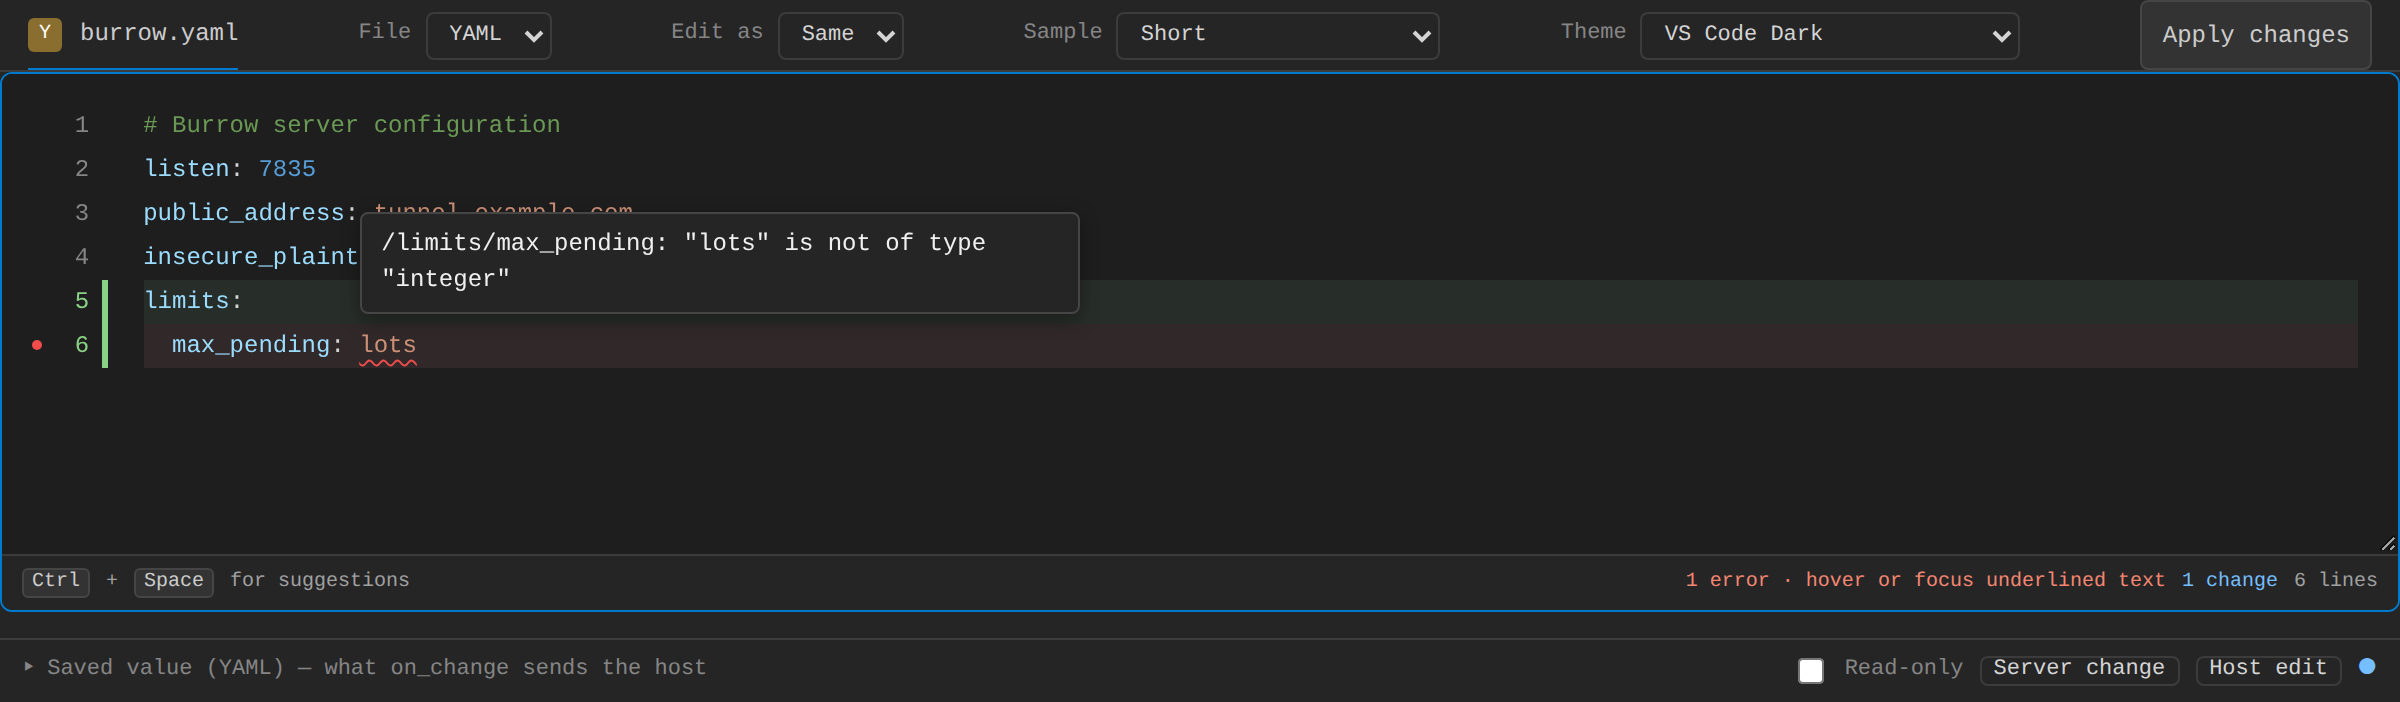
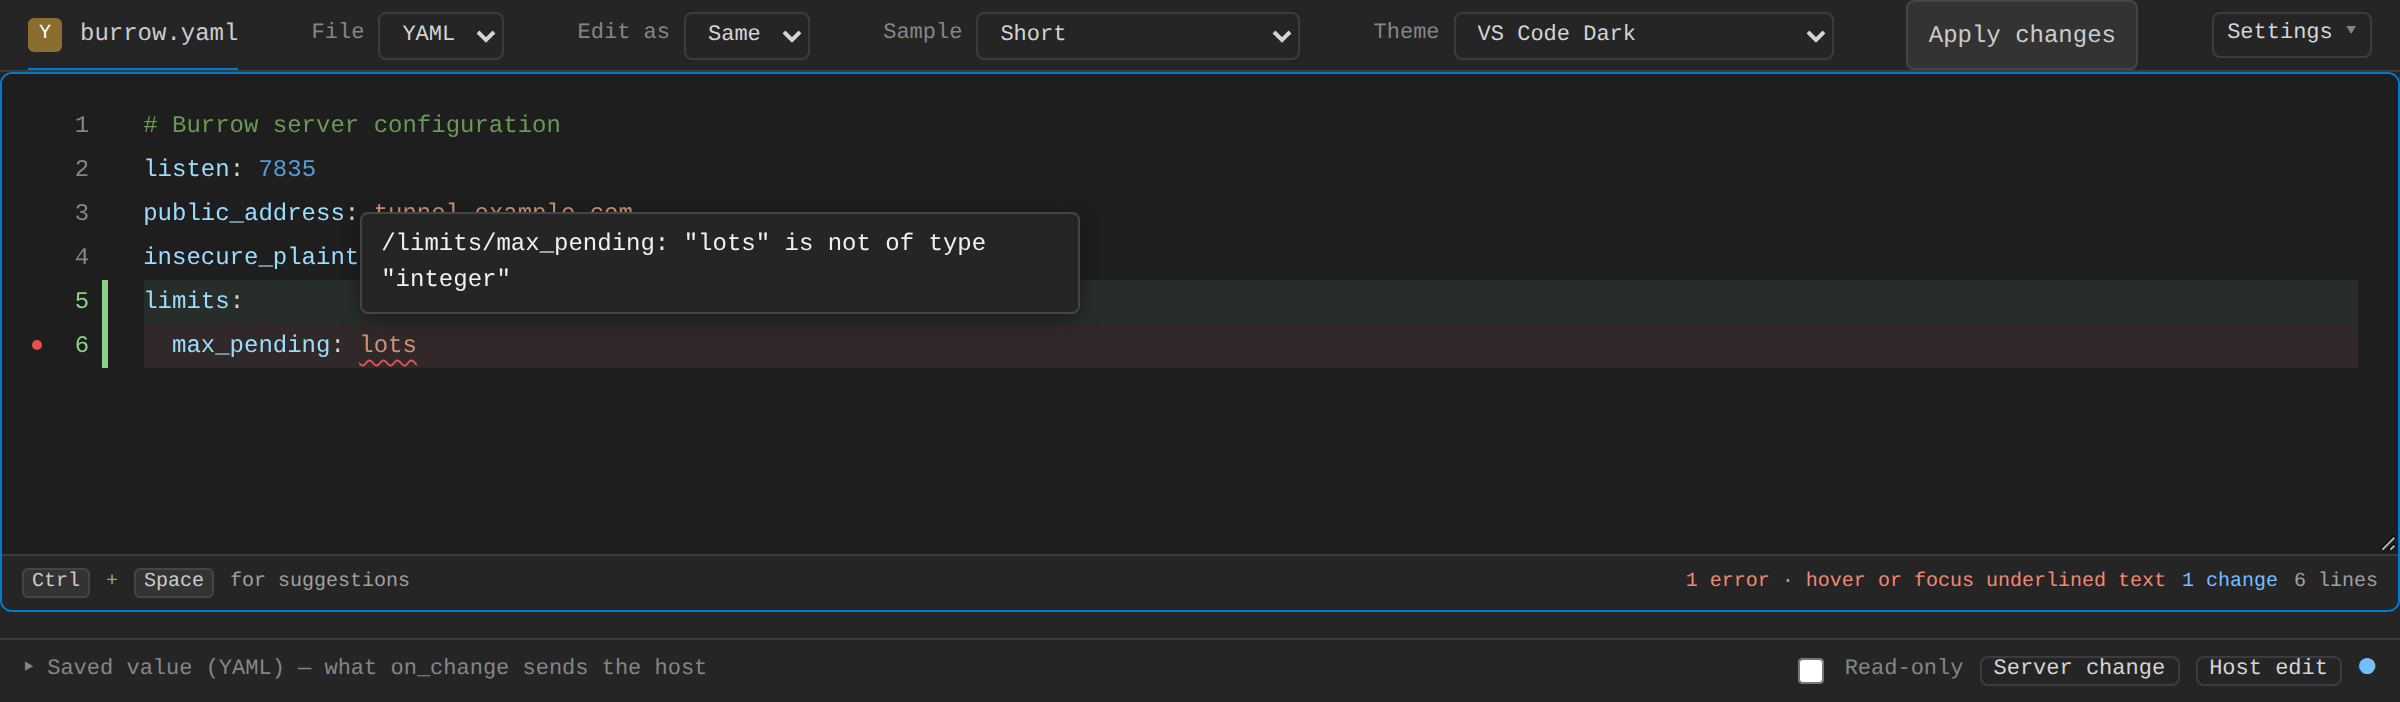
Tests that relied on a tap's rounding or undo grouping made exact, screenshots cropped by a specific selector and refusing strips, a Tab-moves-focus scene, the demo's Settings toggle styled like the toolbar

Changed region(s): [[0.5625, 0.0, 1.0, 0.0598], [0.125, 0.0299, 0.5, 0.0598]]

diff --git a/demo.css b/demo.css
@@ -24,11 +24,25 @@
    documents demo), so the page keeps its height. */
 .demo__settings {
   position: relative;
+  align-self: center;
   color: var(--config-editor-muted);
   font: 11px/1.2 ui-sans-serif, system-ui, sans-serif;
 }
-.demo__settings > summary {
+/* Looks like the toolbar's selects beside it. */
+.demo__settings-toggle {
+  padding: 4px 7px;
+  border: 1px solid var(--config-editor-border);
+  border-radius: 4px;
+  background: var(--config-editor-panel);
+  color: var(--config-editor-text);
   cursor: pointer;
+  list-style: none;
+}
+.demo__settings-toggle::-webkit-details-marker { display: none; }
+.demo__settings-toggle::after { content: " ▾"; color: var(--config-editor-muted); }
+.demo__settings-toggle:focus-visible {
+  outline: 2px solid var(--config-editor-accent);
+  outline-offset: 1px;
 }
 .config-editor__toolbar .demo__settings-list {
   position: absolute;

diff --git a/src/settings_panel.rs b/src/settings_panel.rs
@@ -56,7 +56,7 @@ pub fn SettingsPanel(settings: RwSignal<EditorSettings>) -> impl IntoView {
     };
     view! {
         <details class="demo__settings">
-            <summary class="demo__summary">"Settings"</summary>
+            <summary class="demo__settings-toggle">"Settings"</summary>
             <div class="demo__settings-list">{keys.into_iter().map(switch).collect_view()}</div>
         </details>
     }

diff --git a/docs/screenshots/README.md b/docs/screenshots/README.md
@@ -107,6 +107,14 @@ Problems from the host (a server's validation), by path or range, with their sou
 
 ![Three documents as tabs](documents.png)
 
+## Accessibility
+
+### Leaving the editor with the keyboard
+
+`Tab` indents while editing; `Ctrl+M` makes `Tab` move the focus instead (the footer says so until it is turned off), and `Escape` then `Tab` leaves once. Screen readers hear the problem at the caret and each `F8` stop.
+
+![Tab moves focus, shown in the footer](tab-focus.png)
+
 ## Looks
 
 ### Themes
